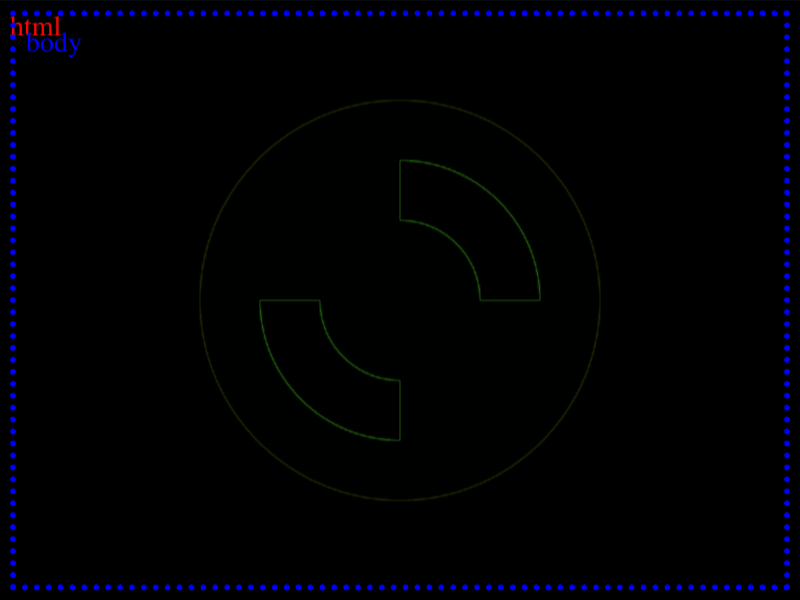
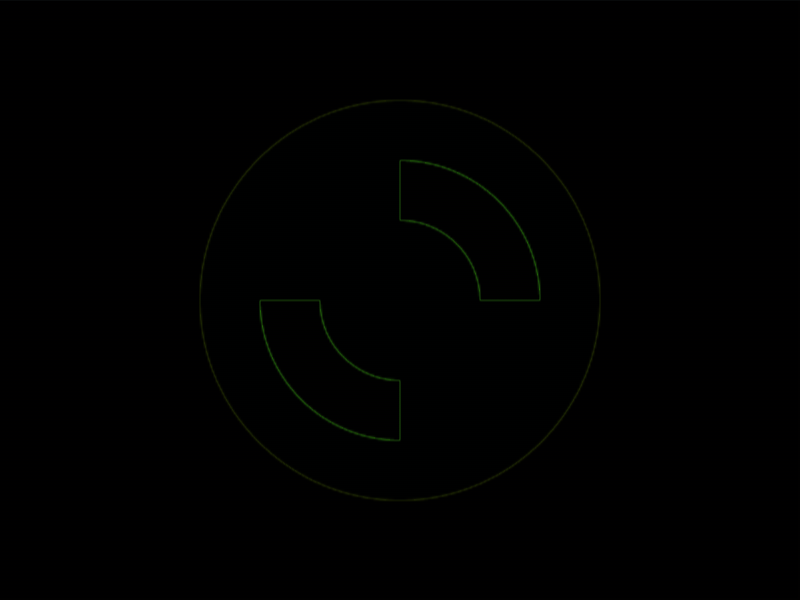
Score: 687.89, Characters: 159 (100.00% match) - CSSHub

Changed region(s): [[0.0, 0.0, 1.0, 0.99]]

diff --git a/Battles/Battle #4/#27. Lock Up/README.md b/Battles/Battle #4/#27. Lock Up/README.md
@@ -22,7 +22,7 @@ Challenge: <https://cssbattle.dev/play/27>
 ## Code
 
 ```html
-<style>&{background:radial-gradient(1Q,#aa445f 0 5ch,#0000 0 74q,#AA445F 0 25vw,#E38F66),conic-gradient(#F7EC7D 90deg,#AA445F 0 180deg,#F7EC7D 0 270deg,#AA445F 0
+<style>&{background:radial-gradient(1q,#aa445f 5ch,#0000 0 74q,#AA445F 0 25vw,#E38F66),conic-gradient(#F7EC7D 90deg,#AA445F 0 180deg,#F7EC7D 0 270deg,#AA445F 0
 ```
 
 ## Prettified code
@@ -33,7 +33,7 @@ Challenge: <https://cssbattle.dev/play/27>
   background:
     radial-gradient(
       1Q,
-      #aa445f 0 5ch,
+      #aa445f 5ch,
       transparent 0 74Q,
       #aa445f 0 25vw,
       #e38f66

diff --git a/README.md b/README.md
@@ -47,7 +47,7 @@ Note - I have not yet complete all the challenges.
 <li><a href="./Battles/Battle%20%234/%2323.%20Boxception/">#23. Boxception</a> (110 Characters)</li>
 <li><a href="./Battles/Battle%20%234/%2324.%20Switches/">#24. Switches</a> (173 Characters)</li>
 <li><a href="./Battles/Battle%20%234/%2326.%20Smiley/">#26. Smiley</a> (135 Characters)</li>
-<li><a href="./Battles/Battle%20%234/%2327.%20Lock%20Up/">#27. Lock Up</a> (161 Characters)</li>
+<li><a href="./Battles/Battle%20%234/%2327.%20Lock%20Up/">#27. Lock Up</a> (159 Characters)</li>
 </ul>
 </details>
 </li>
